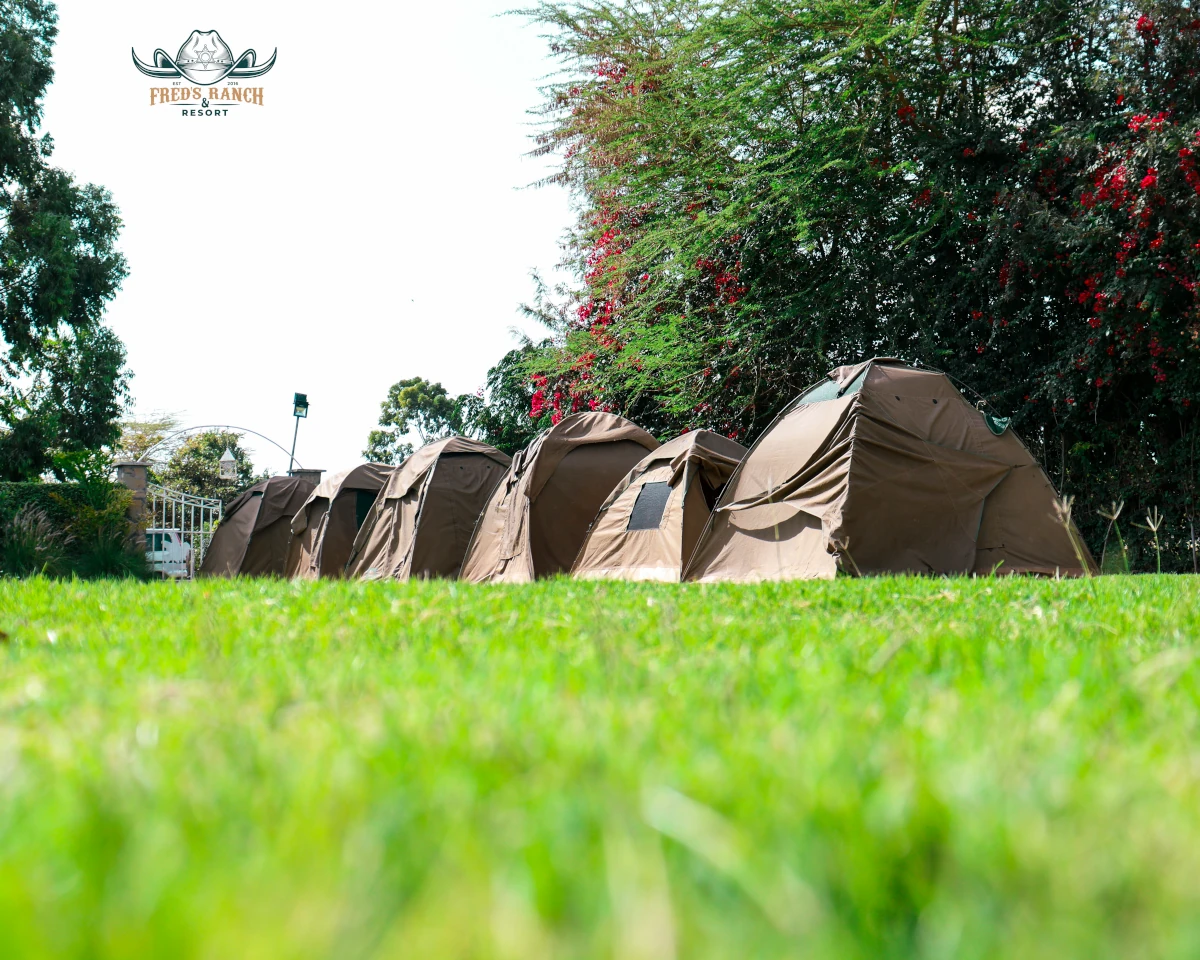
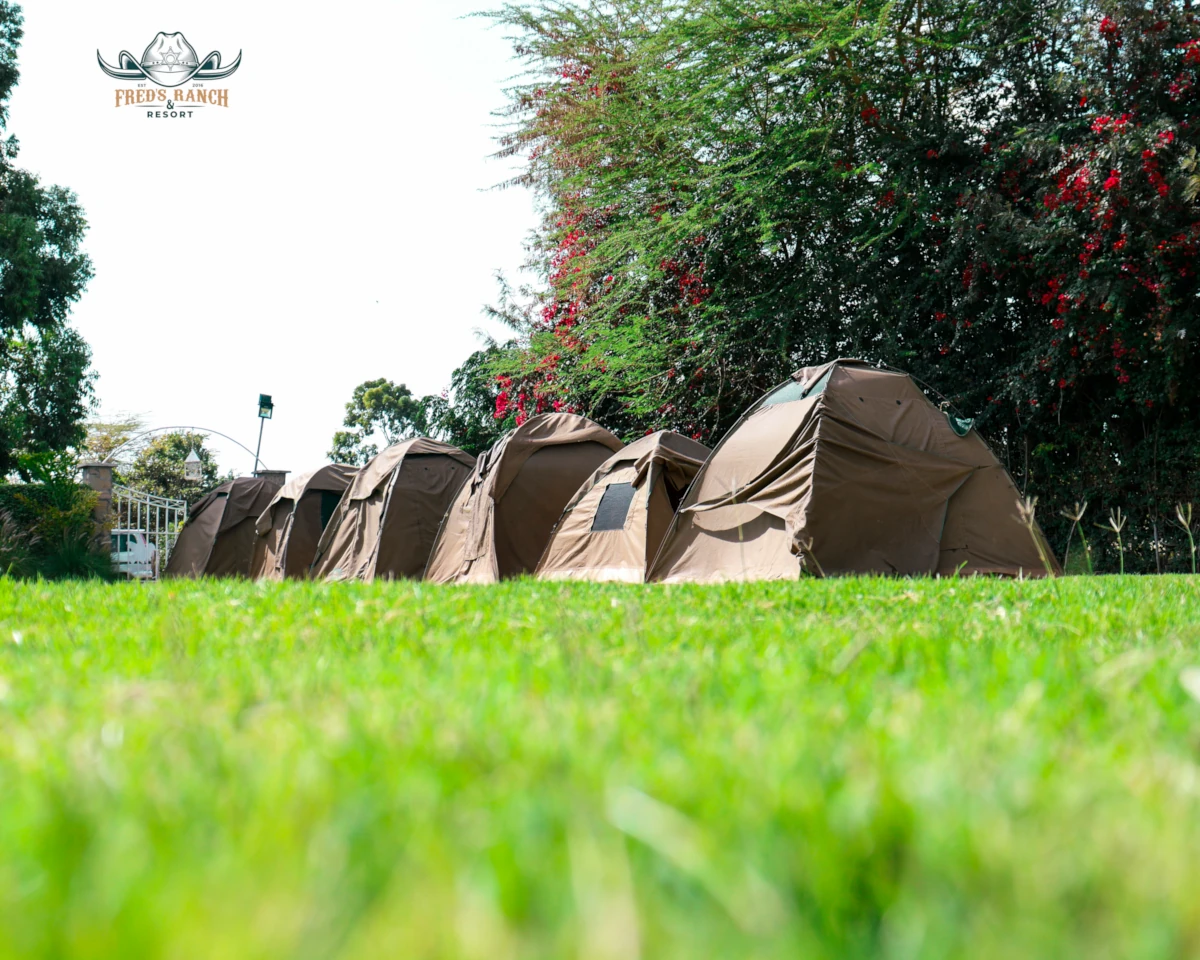
Added image to accommodation carousel

diff --git a/src/components/accommodationPage.jsx b/src/components/accommodationPage.jsx
@@ -3,7 +3,7 @@ import { Row, Col, Container, Carousel, Accordion } from "react-bootstrap";
 import sinkDoor from "../resources/accommodationImages/sinkDoor.webp";
 import bedSide from "../resources/accommodationImages/bedSide.webp";
 import towels from "../resources/accommodationImages/towels.webp";
-import outside from "../resources/accommodationImages/accommOutside.webp";
+import tents from "../resources/accommodationImages/campingTents.webp";
 import SouthSharpIcon from "@mui/icons-material/SouthSharp";
 import { Link } from "react-scroll";
 import { useInView } from "react-intersection-observer";
@@ -160,9 +160,9 @@ function AccommodationPage() {
                 <Carousel.Item interval={700}>
                   <img src={towels} alt="" />
                 </Carousel.Item>
-                {/* <Carousel.Item interval={700}>
-                  <img src={outside} alt="" />
-                </Carousel.Item> */}
+                <Carousel.Item interval={700}>
+                  <img src={tents} alt="" />
+                </Carousel.Item>
               </Carousel>
             </Col>
           </Row>
